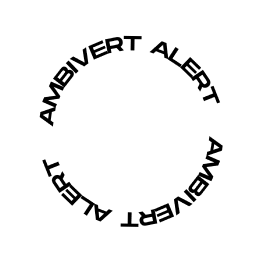
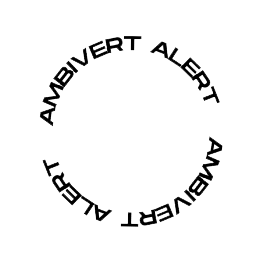
background transition added

diff --git a/src/aboutScript.js b/src/aboutScript.js
@@ -3,7 +3,7 @@
 import './scss/Variables.scss';
 import './scss/style.scss';
 import profile from "./assets/videos/profile.mp4"
-import "../src/scss/Custom_pages/loader.scss"
+
 
 
 //bootstrap
@@ -62,3 +62,39 @@ function profileVid(){
 }
 
 profileVid();
+
+var target=document.querySelector('body')
+var scrollable=document.querySelector('main')
+var about=document.querySelector('.about-me')
+
+
+// function scroll(){
+console.log(scrollable);
+
+// }
+
+scrollable.addEventListener('scroll',()=>{
+    for (let i=0;i<=100;i++){
+        let top=scrollable.scrollTop
+        
+        // let x=t/1000;
+        console.log(top)
+        if(top>=200){
+            target.classList.add('body-orange')
+        }
+        if(top<200){
+            target.classList.remove('body-orange')
+        }
+        if(top>=2000){
+            about.classList.add('about-me-dark')
+            target.classList.add('body-dark')
+
+        }
+        if(top<2000){
+            about.classList.remove('about-me-dark')
+            target.classList.remove('body-dark')
+        }
+
+       
+    }
+})

diff --git a/src/about.html b/src/about.html
@@ -77,7 +77,7 @@ function display_ct() {
                     <div class="gif-area">
                         <div class="planet-area"><img class="gif" src="https://i.ibb.co/Bg6YSHQ/ezgif-com-gif-maker-1.gif" alt="ezgif-com-gif-maker-1" border="0">
                         </div>
-                        <img src="https://i.ibb.co/tLqZTbT/rotate-circle.png" alt="rotate-circle" class="rotation-text" border="0">
+                        <img src="https://i.ibb.co/RNhPV5t/rotate-circle.png" alt="rotate-circle" class="rotation-text" border="0">
                     </div>
                 <video class="prof-video" autoplay loop  plays-inline></video>                
             </div>

diff --git a/src/scss/style.scss b/src/scss/style.scss
@@ -76,8 +76,17 @@ body
     -webkit-text-stroke-width: 0.2px;
     -moz-osx-font-smoothing: grayscale;
     background-color: #161515;//this is the main background-color
+    transition: background-color .5s ease-in;
 }
 
+.body-orange{
+    background-color: $primary;//this is the main background-color
+
+}
+
+.body-dark{
+    background-color: #161515
+}
 
 .webgl
 {   

diff --git a/src/scss/Custom_pages/inside-about/profile.scss b/src/scss/Custom_pages/inside-about/profile.scss
@@ -102,11 +102,13 @@
     
     
 }
+
 .about-me{
     background-color: $primary-orange;
     position: relative;
     padding-left: 2rem;
     padding-right: 2rem;
+    transition: background-color .5s ease-in;
 
 
 
@@ -302,4 +304,8 @@
         }
 
        
+}
+.about-me-dark{
+    background-color: #161515;
+    color:white;
 }
